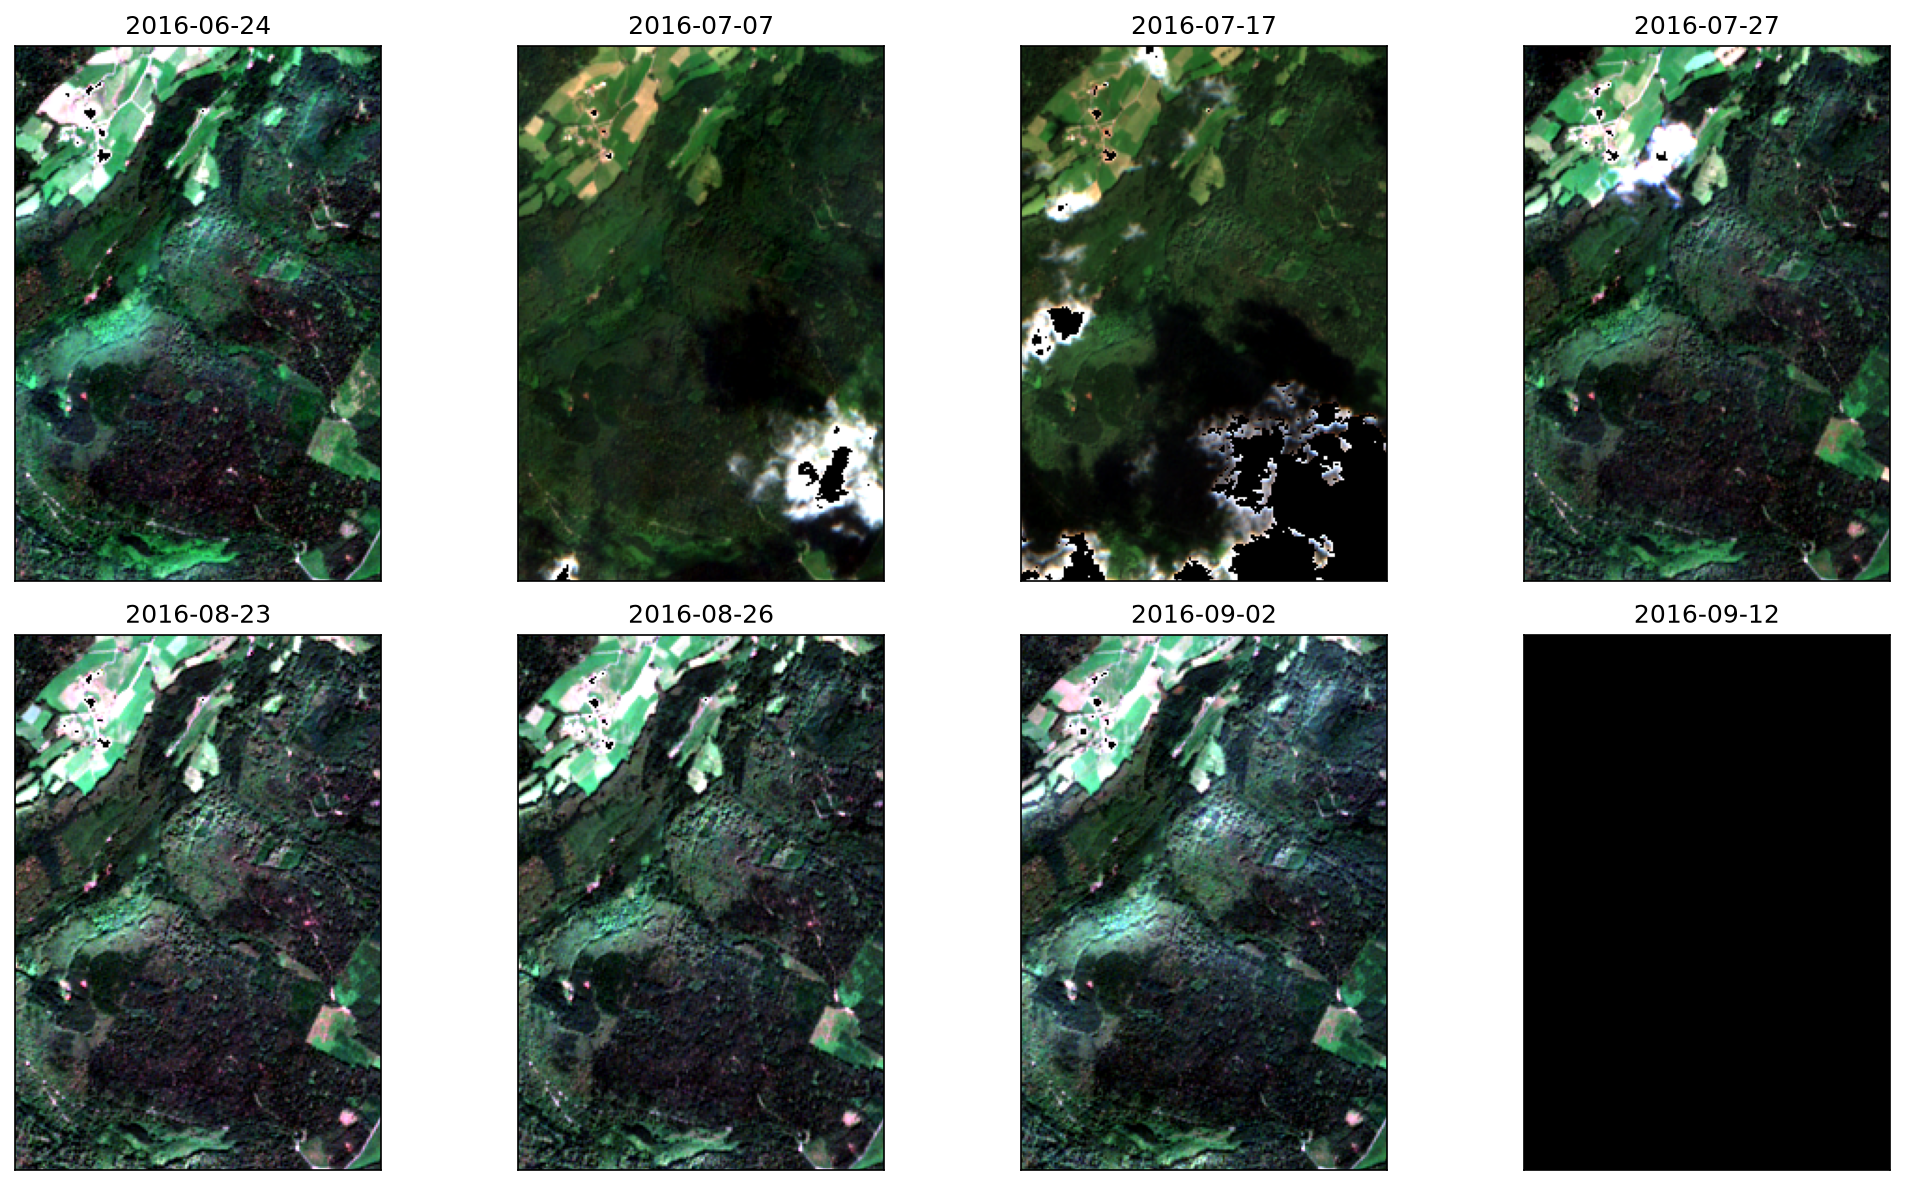
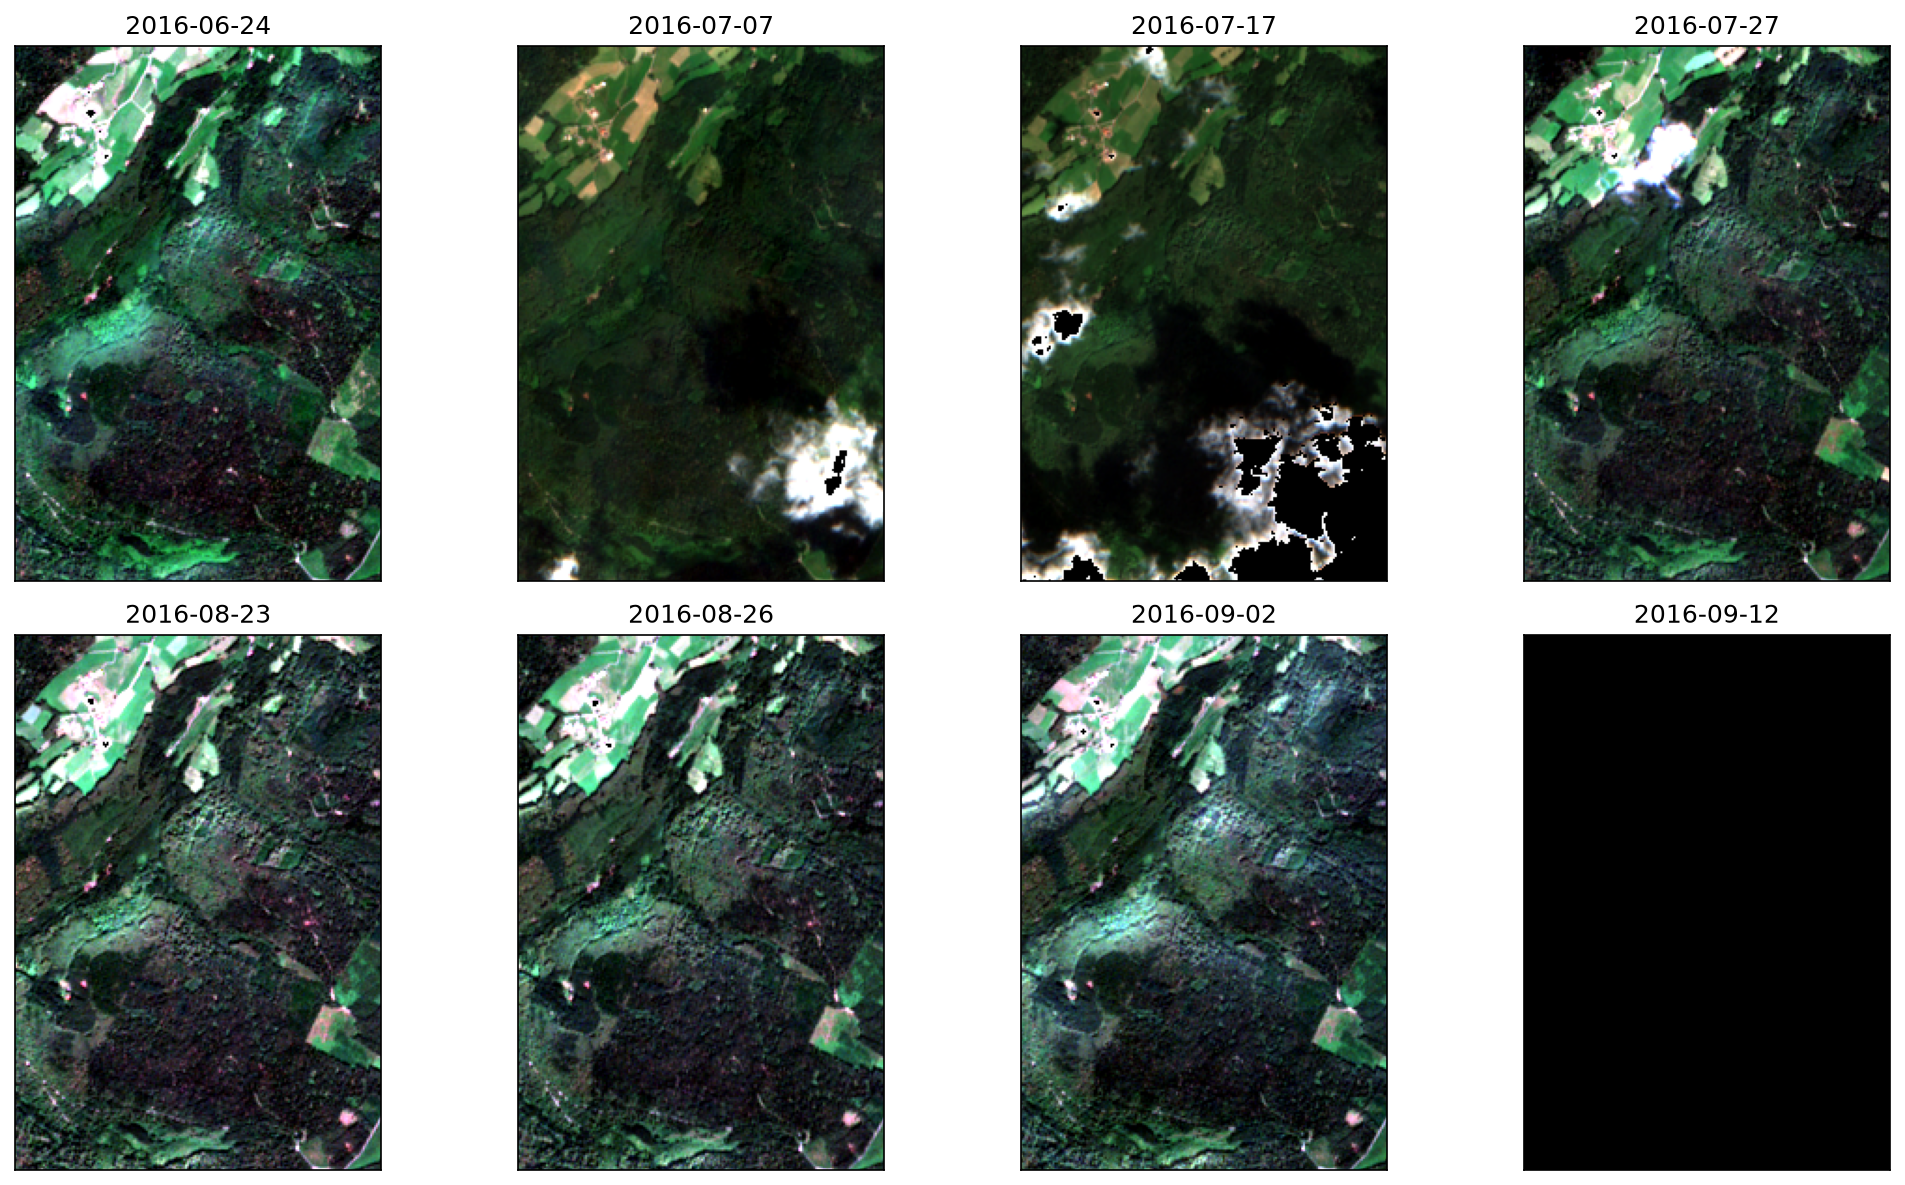
Last commit

diff --git a/main.py b/main.py
@@ -171,7 +171,7 @@ if __name__ == "__main__":
     ax.xaxis.grid(True, which="major", linestyle="dashed")
     ax.legend()
     fig.tight_layout()
-    fig.savefig(os.path.join(output_fig_dir, "03_harmonic_regression_pixel_2016.png"), dpi=200, bbox_inches="tight")
+    fig.savefig(os.path.join(output_fig_dir, "04_harmonic_regression_pixel_2016.png"), dpi=200, bbox_inches="tight")
     print("Enregistré : 03_harmonic_regression_pixel_2016.png")
 
     # === Diagnostic : stats du modèle ===
@@ -432,7 +432,7 @@ if __name__ == "__main__":
 
         fig.suptitle("Étape 7 — Discrimination : Sécheresse vs Scolytes (Ips typographus)", fontsize=14)
         fig.tight_layout()
-        fig.savefig(os.path.join(output_fig_dir, "08_step7_drought_vs_bark_beetle.png"), dpi=200, bbox_inches="tight")
+        fig.savefig(os.path.join(output_fig_dir, "09_step7_drought_vs_bark_beetle.png"), dpi=200, bbox_inches="tight")
         print("Enregistré : 08_step7_drought_vs_bark_beetle.png")
         plt.show()
 

diff --git a/anomaly_detection.py b/anomaly_detection.py
@@ -45,7 +45,7 @@ def detect_dieback(
     anomaly_count = np.sum(anomaly_mask, axis=0)
 
     # Carte binaire de dépérissement : le pixel a au moins une anomalie en 2018
-    dieback_map = anomaly_count > 0
+    dieback_map = anomaly_count > 2
 
     # Excès maximal au-dessus du seuil haut
     excess = np.where(anomaly_mask, obs_crswir - upper_threshold, 0.0)

diff --git a/preprocess.py b/preprocess.py
@@ -68,7 +68,7 @@ def apply_cloud_mask(
         & (ndvi < 0.4)
         & ~invalid
     )
-    non_vegetation = (ndvi < 0.3) & ~invalid
+    non_vegetation = (ndvi < 0.2) & ~invalid
     return invalid | clouds | non_vegetation
 
 def apply_rgb_compo(
